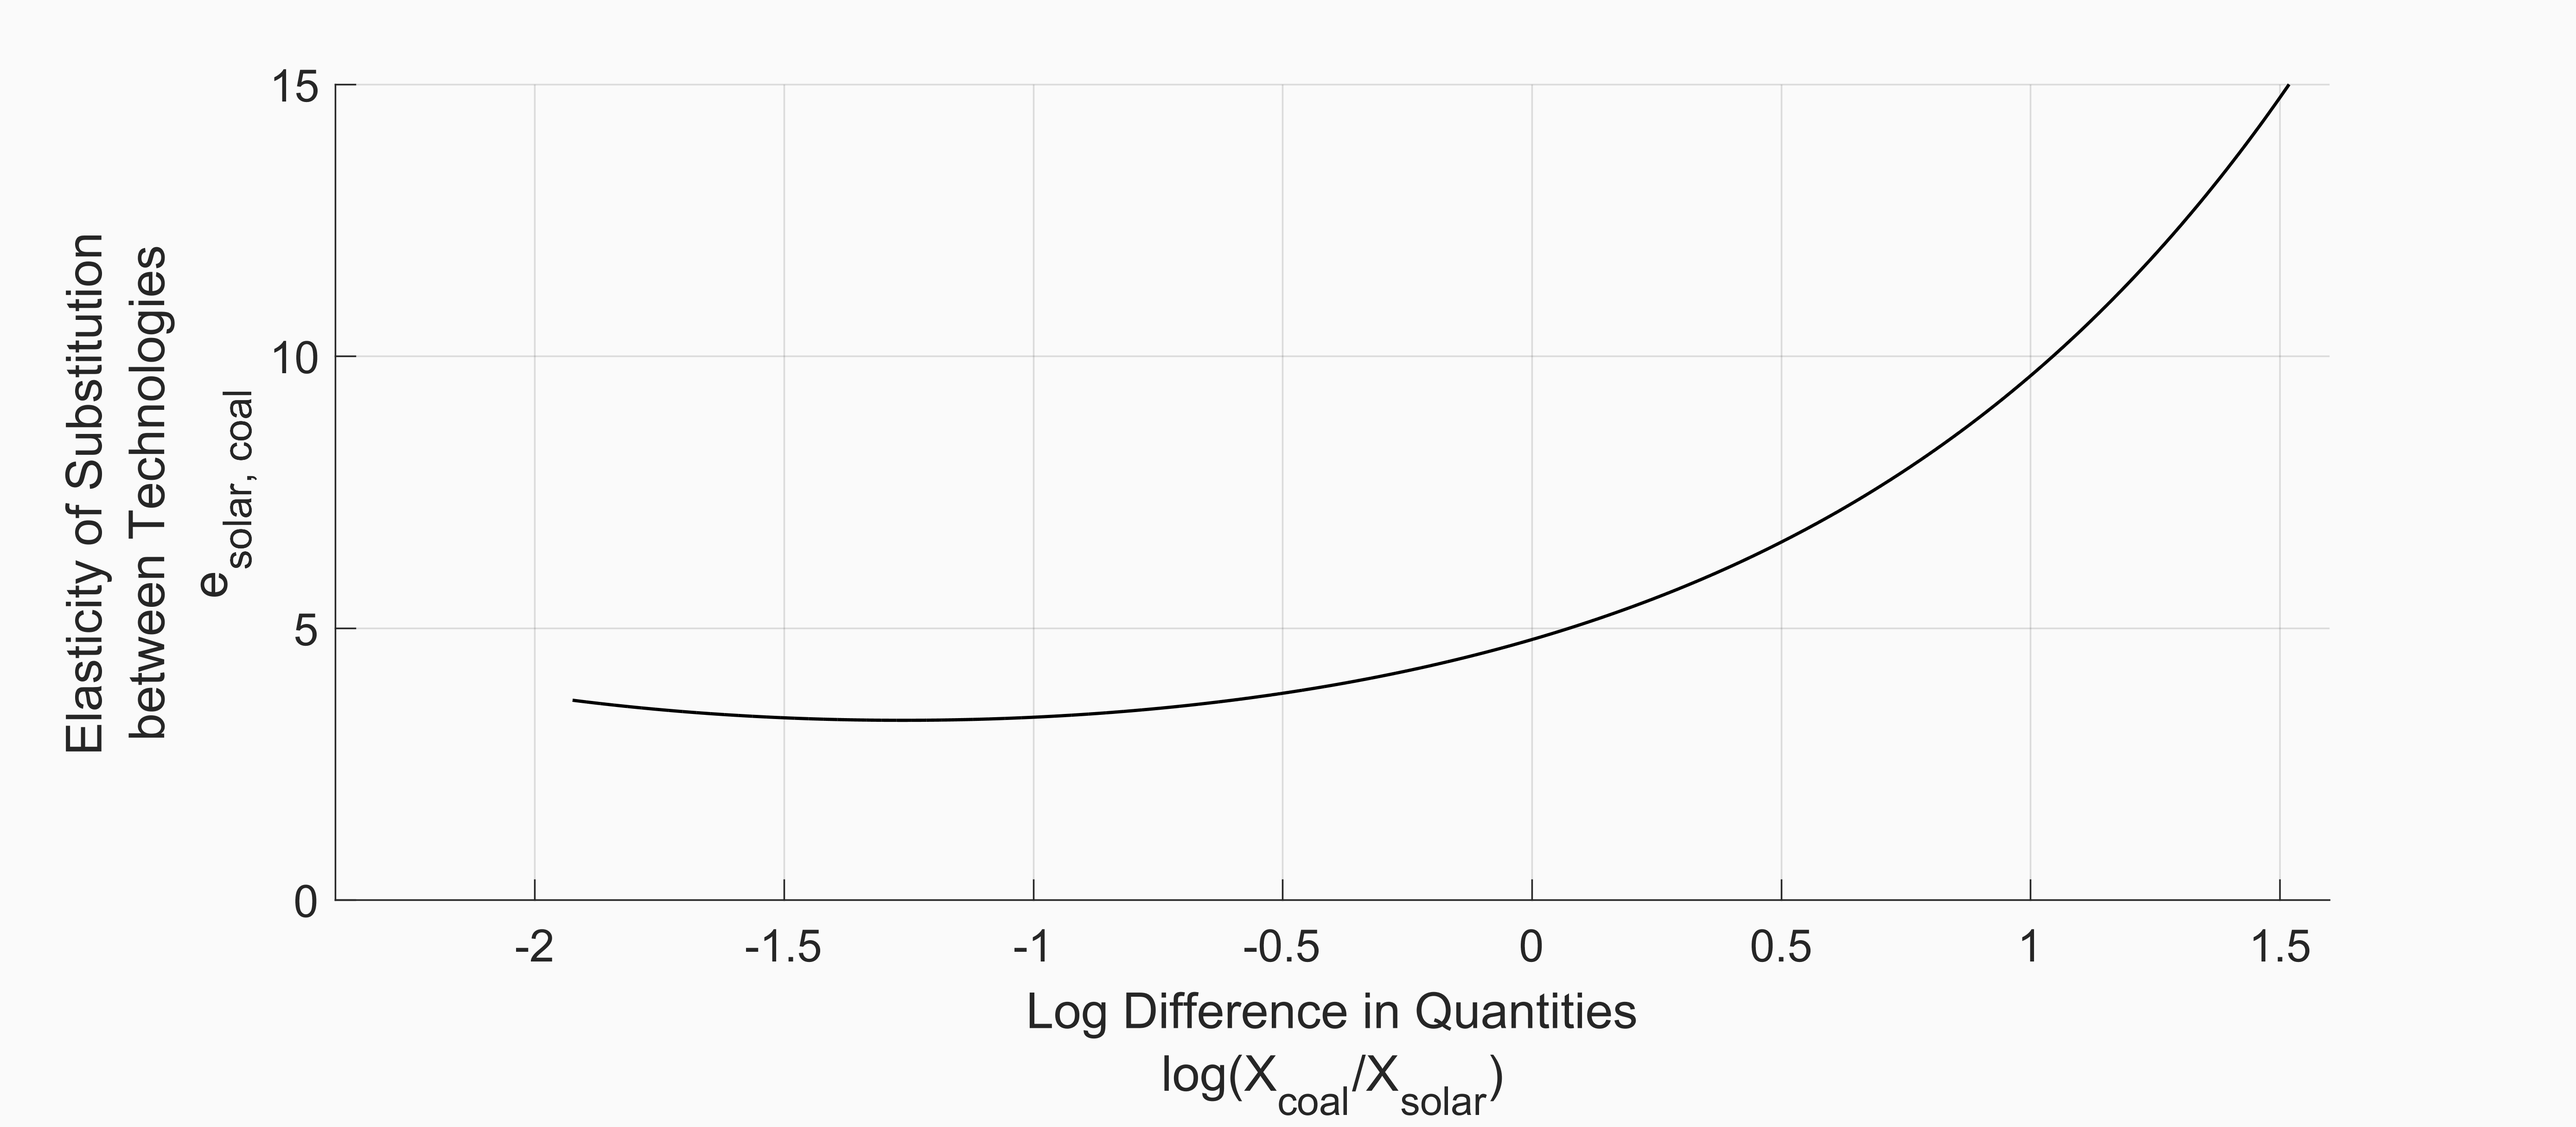
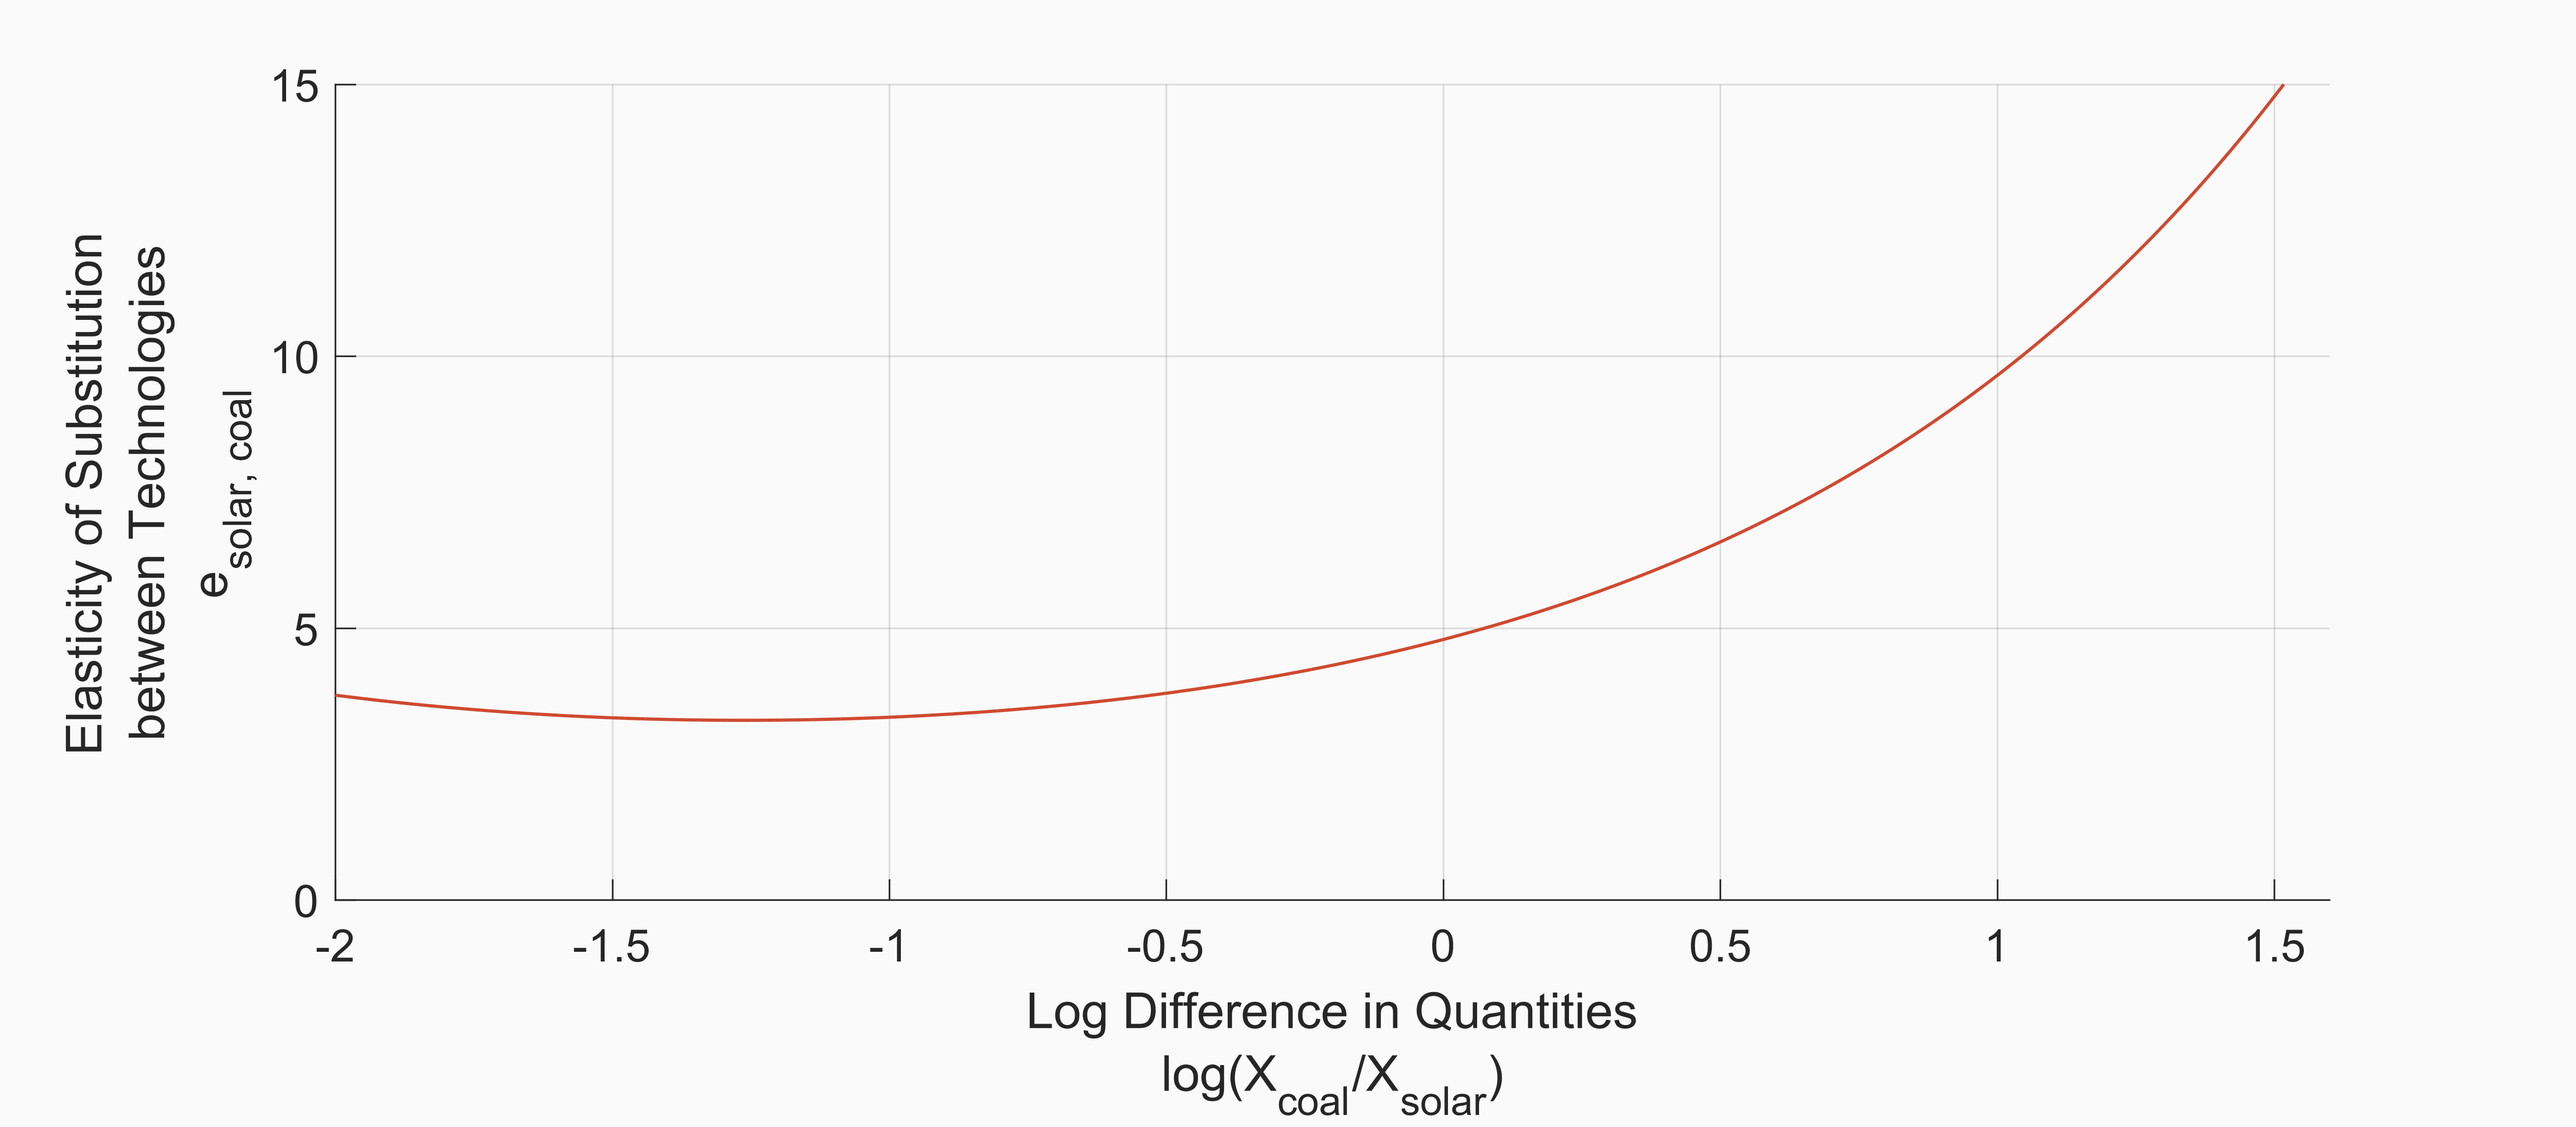
Update code for workshop
- add more graphs

diff --git a/code/matlab/simulation_april/sim_elasticity_x.m b/code/matlab/simulation_april/sim_elasticity_x.m
@@ -1,10 +1,10 @@
-%% Elasticity of Substitution Sim with error bars on sigma estimate
+%% Adoption with Respect to Price of Solar Sim
 
 close all; clear; clc;
 
 % Simulation params
-n = 5000;
-cost_multiplier = linspace(0.5,3,n);
+n = 500;
+cost_multiplier = linspace(1, 1.6, n);
 sigma_range = [0.8847 + 1.96*0.044, 0.8847, 0.8847 - 1.96*0.044];
 m = length(sigma_range);
 
@@ -17,7 +17,7 @@ xi_2  = [1, 0.1];
 budget = 1;
 
 
-figure('Renderer', 'painters', 'Position', [100 100 900 600])
+%figure('Renderer', 'painters', 'Position', [100 100 900 400])
 hold on;
 
 for j = 1:m
@@ -49,7 +49,7 @@ for j = 1:m
         
         % Quantities
         Y = ((alpha'./prices).^(sigma)) * (budget/P);
-           
+          
         X = (xi_mat')\Y;
 
         results(i,:) = X';
@@ -57,27 +57,29 @@ for j = 1:m
     end    
 
     output = [];
-    output(1,:) = c_1*cost_multiplier'./c_2;
-    output(2,:) = results(:,1)./results(:,2);
-
-    % subset to positive quantities
-    ind = ~any(output <= 0);
-    output = output(:,ind);
+    output(1,:) = results(:,1);
+    output(2,:) = results(:,2);
+    output(3,:) = cost_multiplier-1;
+    output(4,:) = c_1*cost_multiplier;
     
-    % relationship between e and log quantities
+    % subset to positive quantities
+    ind = ~any(output(1:2,:) <= 0);
+    output = output(:,ind);
+
+    % elasticity of coal versus price
     hold on;
     
     if sigma == 0.8847
-        plot(log(output(2,2:end)), ...
-            diff(log(output(2,:)))./diff(-log(output(1,:))), ...
+        plot(output(3,2:end)*100, ...
+            diff(log(output(1,:)))./diff(log(output(4,:))), ...
             'LineWidth', 1, 'Color', [207, 74, 48]/255);
 %     elseif sigma < 0.8846
-%         plot(log(output(2,2:end)), ...
-%             diff(log(output(2,:)))./diff(-log(output(1,:))), ...
+%         plot(output(3,2:end)*100, ...
+%             diff(log(output(1,:)))./diff(log(output(4,:))), ...
 %             'LineWidth', 1, 'LineStyle', '--', 'Color', [0 0 1]*0.8);
 %     else
-%         plot(log(output(2,2:end)), ...
-%             diff(log(output(2,:)))./diff(-log(output(1,:))), ...
+%         plot(output(3,2:end)*100, ...
+%             diff(log(output(1,:)))./diff(log(output(4,:))), ...
 %             'LineWidth', 1, 'LineStyle', '--', 'Color', [1 0 0]*0.8);
     end
     
@@ -85,21 +87,21 @@ end
 
 %% Plot formatting
 
-% Format subplot 2
+% Format plot 1
 % legend('0.9709 (Upper 95% Confidence Limit)', '0.8847', ...
 %     '0.7985 (Lower 95% Confidence Limit)')
-xlabel({'Log Difference in Quantities', 'log(X_{coal}/X_{solar})'})
-ylabel({'Elasticity of Substitution', ...
-    'between Technologies', 'e_{solar, coal}',})
-xlim([-2, 1.6])
-ylim([0 15])
+xlabel('Percent Change in the Cost of Coal Capacity')
+ylabel({'Price Elasticity of Demand', 'for Coal Capacity'})
+xtickformat('percentage')
+ytickformat('percentage')
+%xlim([-80, 40])
+%ylim([0 100])
 grid('on')
 
 % % Format legend
 % [hleg,att] = legend('show');
-% legend('Location', 'northwest')
-% title(hleg, {'\sigma', '(Intertemporal Elasticity of Substitution', ...
-%     'for Electricity Consumption)'})
+% legend('Location', 'southwest')
+% title(hleg, '\sigma')
 
 % Save figure
 set(gca,'FontSize',14)
@@ -107,5 +109,5 @@ set(gcf,'units','points','position',[100,100,1600,700]/2)
 set(gca,'color','none')
 set(gcf, 'InvertHardcopy', 'off')
 set(gcf,'color', [250 250 250]/255);
-print(gcf,'fig_elasticity_x.png','-dpng','-r500')
+print(gcf,'fig_coal_elas_x.png','-dpng','-r500')
 

diff --git a/code/matlab/simulation_april/sim_batteries_x.m b/code/matlab/simulation_april/sim_batteries_x.m
@@ -3,10 +3,10 @@
 close all; clear; clc;
 
 % Simulation params
-n = 5000;
-cost_multiplier = linspace(0.5,3,n);
-sigma_range = [0.8847 + 1.96*0.044, 0.8847, 0.8847 - 1.96*0.044];
-m = length(sigma_range);
+n = 500;
+cost_multiplier = linspace(0.25,3,n);
+xi_2_values = [1, 0.1; 0.95, 0.15; 0.9, 0.2];
+m = 3;
 
 % Exogenous params
 c_1 = 104.3;
@@ -15,14 +15,14 @@ alpha = [0.6, 0.4];
 xi_1  = [1,   1];
 xi_2  = [1, 0.1];
 budget = 1;
-
+sigma = 0.8847;
 
 figure('Renderer', 'painters', 'Position', [100 100 900 600])
 hold on;
 
 for j = 1:m
     
-    sigma = sigma_range(j);
+    xi_2 = xi_2_values(j,:);
     results = zeros(n,2); 
 
     for i = 1:n
@@ -40,7 +40,7 @@ for j = 1:m
         if any(prices<0)
             continue
         end
-
+0
         % Price Index
         P = ((1/2) * (prices'.^(1-sigma))*(alpha'.^sigma)).^(1/(1-sigma));
         if sigma == 1
@@ -63,49 +63,56 @@ for j = 1:m
     % subset to positive quantities
     ind = ~any(output <= 0);
     output = output(:,ind);
-    
-    % relationship between e and log quantities
+
+    if j == 3
+        line_color = [207, 74, 48]/255;
+    elseif j == 2
+        line_color = mean([207, 74, 48; 35, 55, 59]/255, 1);
+    else
+        line_color = [35,55,59]/255;
+    end
+
     hold on;
     
-    if sigma == 0.8847
-        plot(log(output(2,2:end)), ...
-            diff(log(output(2,:)))./diff(-log(output(1,:))), ...
-            'LineWidth', 1, 'Color', [207, 74, 48]/255);
-%     elseif sigma < 0.8846
-%         plot(log(output(2,2:end)), ...
-%             diff(log(output(2,:)))./diff(-log(output(1,:))), ...
-%             'LineWidth', 1, 'LineStyle', '--', 'Color', [0 0 1]*0.8);
-%     else
-%         plot(log(output(2,2:end)), ...
-%             diff(log(output(2,:)))./diff(-log(output(1,:))), ...
-%             'LineWidth', 1, 'LineStyle', '--', 'Color', [1 0 0]*0.8);
-    end
+    plot(log(output(2,2:end)), ...
+        diff(log(output(2,:)))./diff(-log(output(1,:))), ...
+        'LineWidth', 1.5, 'Color', line_color);
+    
     
 end
 
 %% Plot formatting
 
+% Format subplot 1
+% subplot(2,1,1);
+lgnd = legend('(0%)', '(5%)', '(10%)')
+% xlabel({'Negative Log Difference in Costs', 'log(c_2/c_1)'})
+% ylabel({'Log Difference in Quantities', 'log(X_1/X_2)'})
+% xlim([-1.3, -0.4])
+% ylim([-10, 15])
+% grid('on')
+
+% Format legend
+[hleg,att] = legend('show');
+legend('Location', 'northwest')
+set(lgnd, 'color', [250 250 250]/255)
+title(hleg, {'% of Solar Output','shifted to Off-Peak'})
+
 % Format subplot 2
-% legend('0.9709 (Upper 95% Confidence Limit)', '0.8847', ...
-%     '0.7985 (Lower 95% Confidence Limit)')
+%subplot(2,1,2);
 xlabel({'Log Difference in Quantities', 'log(X_{coal}/X_{solar})'})
 ylabel({'Elasticity of Substitution', ...
     'between Technologies', 'e_{solar, coal}',})
 xlim([-2, 1.6])
-ylim([0 15])
+ylim([0 25])
 grid('on')
 
-% % Format legend
-% [hleg,att] = legend('show');
-% legend('Location', 'northwest')
-% title(hleg, {'\sigma', '(Intertemporal Elasticity of Substitution', ...
-%     'for Electricity Consumption)'})
-
 % Save figure
+
 set(gca,'FontSize',14)
 set(gcf,'units','points','position',[100,100,1600,700]/2)
 set(gca,'color','none')
 set(gcf, 'InvertHardcopy', 'off')
 set(gcf,'color', [250 250 250]/255);
-print(gcf,'fig_elasticity_x.png','-dpng','-r500')
+print(gcf,'fig_batteries_x.png','-dpng','-r500')
 
